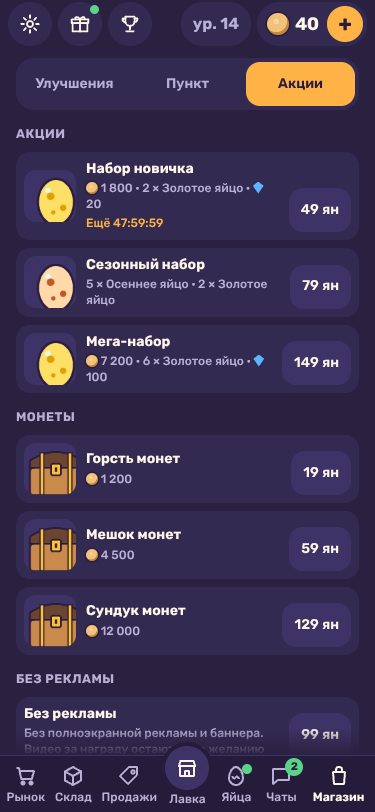
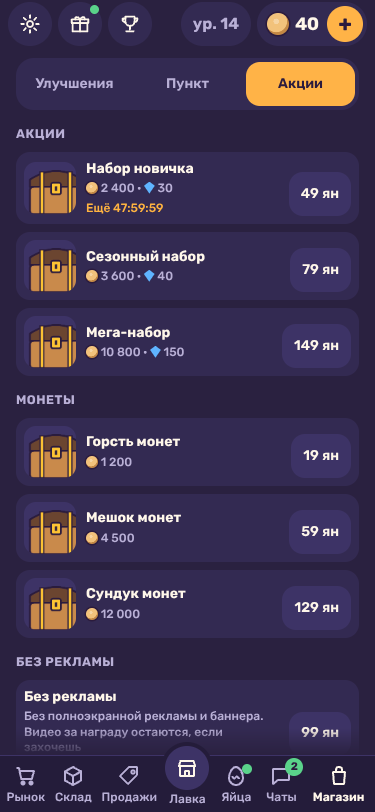
M5-09: «двойки» ревизора рекламы — буст 2 раза в день, яиц за ролик 5 → 3, наборы без яиц (IAP-04), таймер у «×2 за сделку», F9 по худшему случаю; кадры пересняты
Claude-Session: https://claude.ai/code/session_01SMkcH8Uyoj9PHiCEX6TipC

diff --git a/scripts/balance-model.ts b/scripts/balance-model.ts
@@ -12,7 +12,7 @@
 //   Long run (3 days of 30 active minutes and 8 hours away, casual and slow bots): F6 8 h away pays 30–60 min of play (casual)
 //     · F19 (FB-03, Q-039 B) an hour away pays 30–50 % of an hour of play (up to 2 hours), the seller level grows ≤ 1 away
 //   F20 (FB-05): full egg care at least doubles the VIP and exclusive share of every ladder egg and pays for its food.
-//     · F7 the rebirth threshold on day 2–3 · F8 district 2 by 10 min, district 3 by 40 min of play. F9 (ads, M5-02): the share of eggs for videos and what the ad points add at most in a day of 30 minutes (info).
+//     · F7 the rebirth threshold on day 2–3 · F8 district 2 by 10 min, district 3 by 40 min of play. F9 (ads, M5-02): the share of eggs for videos and what the ad points add at most in a day of 30 minutes (≤ 100 %).
 //   Week (M4-08, casual): F17 something new opens every day of 7, the guest zone pays its upkeep (M4-05) · F18 the second city
 //     1–3 days after the first, its egg bought.
 //   Keeper (feeds every creature to the top before selling): F12 earns at most ×2 of the casual player in 10 min and
@@ -659,22 +659,25 @@ export function runBalance(seeds = 24, longSeeds = Math.max(3, Math.round(seeds 
     const deals = quantile(casualDays.map((r) => r.dealsDay1), 0.5);
     const adEggs = Math.min(a.eggs.perDay, Math.floor(day / Math.max(1, a.eggs.gapSec)) + 1);
     const share = adEggs / Math.max(1, hatched + adEggs);
-    const boost = ((a.boost.mult - 1) * Math.min(a.boost.sec, day)) / day;
+    const boost = ((a.boost.mult - 1) * Math.min(a.boost.sec * a.boost.perDay, day)) / day;
     const dealGap = a.rewarded.placementGapSec?.deal_x2 ?? a.rewarded.gapSec;
     const doubled = Math.min(deals, Math.floor(day / Math.max(1, dealGap)));
     const double = doubled / Math.max(1, deals);
-    // An egg for a video hatches at the gift price: its expected value in minutes of income (the ladder card counts as the gift egg).
+    // An egg for a video hatches at the gift price, capped at rewardCapMin minutes of income. The worst case (the ad review of M5):
+    // the ladder card — the best open ladder egg — at the cap, every video of the day on it; the golden card at its expected value.
     const evMin = a.eggs.cards.map((c) => {
-      const e = content.eggs.eggs.find((x) => x.id === (c.egg === 'ladder' ? 'egg_gift' : c.egg));
+      if (c.egg === 'ladder') return content.eggs.income.rewardCapMin;
+      const e = content.eggs.eggs.find((x) => x.id === c.egg);
       const ev = e?.value ? RARITIES.reduce((n, r) => n + (e.chances[r] / 100) * e.value![r], 0) : 1;
       return Math.min(content.eggs.income.rewardCapMin, (e?.valueIncomeMin ?? 1) * ev);
     });
-    const eggs = (adEggs * (evMin.reduce((x, y) => x + y, 0) / evMin.length)) / (day / 60);
+    const eggs = (adEggs * Math.max(...evMin)) / (day / 60);
     const total = boost + double + eggs;
     lines.push(
       `ads     M5-02 casual day of 30 min (p50): eggs for videos ${adEggs} of ${fmt(hatched + adEggs, 0)} (${fmt(share * 100, 0)} %) · boost +${fmt(boost * 100, 0)} %` +
-        ` · ×2 deal ${doubled} of ${fmt(deals, 0)} deals (+${fmt(double * 100, 0)} %) · egg ads ≈ +${fmt(eggs * 100, 0)} % · F9 at most +${fmt(total * 100, 0)} % (want 30–100 %) ${total >= 0.3 && total <= 1 ? 'ok' : 'info'}`,
+        ` · ×2 deal ${doubled} of ${fmt(deals, 0)} deals (+${fmt(double * 100, 0)} %) · egg ads ≤ +${fmt(eggs * 100, 0)} % · F9 at most +${fmt(total * 100, 0)} % (want 30–100 %) ${total >= 0.3 && total <= 1 ? 'ok' : 'FAIL'}`,
     );
+    if (total > 1) failures.push(`F9 the ad points add up to +${fmt(total * 100, 0)} % in a day (want ≤ 100 %)`);
   } else lines.push('F9 rewarded ads: no ads data');
   lines.push(failures.length ? `FAIL: ${failures.join('; ')}` : `F1–F8, F10${LIMITS.F11enforced ? ', F11' : ''}, F12–F20: all green`);
   return { ok: failures.length === 0, lines, failures };

diff --git a/src/sim/game.ts b/src/sim/game.ts
@@ -462,8 +462,10 @@ export interface Game {
   /** M5-02: the player's last deal still to double (the creature sold and its coins), or null. */
   dealToDouble(): { uid: string; coins: number } | null;
   /** M5-02: the sales boost of the «Gifts» tile — sales ×mult for its seconds of live play. */
-  startBoost(): void;
+  startBoost(day: string): boolean;
   boostLeft(): number;
+  /** M5-02: sales boosts still to take today (boost.perDay a device day). */
+  boostsLeft(day: string): number;
   /** M5-05: a purchase's goods into the shop (coins by income, eggs into «my eggs», crystals); the coins given. */
   grantPack(give: PackGive): number;
   /** M5-04, M5-05: a store mark — a pack bought (count by id), «no ads» owned, the end of the starter deal (platform time). */
@@ -493,9 +495,17 @@ export function createGame(store: GameStore, content: GameContent, rng: Rng): Ga
   let lastAway = 0;
   /** M5-02: the coins of the player's last deal, for «×2» once (not saved: the button lives in the deal's own chat). */
   let lastDeal: { uid: string; coins: number } | null = null;
+  /** M5-02: a new device day starts the ad counts over (eggs, boosts). */
+  const newDay = (day: string): void => {
+    const a = adsOf();
+    if (a.day === day) return;
+    a.day = day;
+    a.eggs = 0;
+    a.boosts = 0;
+  };
   const adsOf = (): NonNullable<SaveData['ads']> => {
     const st = s();
-    st.ads ??= { day: '', eggs: 0, eggIn: 0, boostLeft: 0 };
+    st.ads ??= { day: '', eggs: 0, eggIn: 0, boostLeft: 0, boosts: 0 };
     return st.ads;
   };
   /** FB-02: the player's income, coins a minute (never below the floor of the first minute). */
@@ -2293,10 +2303,7 @@ export function createGame(store: GameStore, content: GameContent, rng: Rng): Ga
       const a = content.ads;
       if (!card || !a || card.left <= 0 || card.waitSec > 0) return false;
       const st = adsOf();
-      if (st.day !== day) {
-        st.day = day;
-        st.eggs = 0;
-      }
+      newDay(day);
       st.eggs += 1;
       st.eggIn = a.eggs.gapSec;
       // An ad egg is a free reward: it hatches in the gift prices (FB-15), like the egg of the gifts.
@@ -2328,11 +2335,20 @@ export function createGame(store: GameStore, content: GameContent, rng: Rng): Ga
       emit({ type: 'change' });
       return c;
     },
-    startBoost() {
-      if (!content.ads) return;
-      adsOf().boostLeft = content.ads.boost.sec;
+    startBoost(day) {
+      if (!content.ads || game.boostsLeft(day) <= 0) return false;
+      newDay(day);
+      const a = adsOf();
+      a.boosts = (a.boosts ?? 0) + 1;
+      a.boostLeft = content.ads.boost.sec;
       commit({ flush: true });
       emit({ type: 'change' });
+      return true;
+    },
+    boostsLeft(day) {
+      if (!content.ads) return 0;
+      const a = s().ads;
+      return a?.day === day ? Math.max(0, content.ads.boost.perDay - (a.boosts ?? 0)) : content.ads.boost.perDay;
     },
     boostLeft: () => s().ads?.boostLeft ?? 0,
     grantPack(give) {

diff --git a/src/ui/chats.ts b/src/ui/chats.ts
@@ -24,7 +24,7 @@ export interface ChatsLookups {
   /** l2: sideways the list and the dialog stand side by side. */
   wide(): boolean;
   /** M5-02: «×2 deal» for a video after a sale in the chat; missing — no ad button. */
-  double?: { busy(): boolean; watch(): void };
+  double?: { busy(): boolean; wait(): number; watch(): void };
 }
 
 export interface ChatsTab {
@@ -112,18 +112,24 @@ export function createChatsTab(sheet: Sheet, game: Game, look: ChatsLookups): Ch
     // Q-025: the creature of an open chat is off the shelf («talking»); a closed one may be back on the shelf or in the inventory.
     const view = game.view();
     const cr = [...view.talking, ...view.creatures, ...view.inventory].find((x) => x.uid === c.uid);
-    const next = `d:${id}:${look.lang()}:${c.state}:${c.lines.length}:${c.offer}:${cr?.ask ?? ''}:${game.dealToDouble()?.uid ?? ''}:${look.double?.busy() ?? ''}`;
+    const next = `d:${id}:${look.lang()}:${c.state}:${c.lines.length}:${c.offer}:${cr?.ask ?? ''}:${game.dealToDouble()?.uid ?? ''}:${look.double?.busy() ?? ''}:${look.double ? Math.ceil(look.double.wait()) : ''}`;
     if (next === dialogKey) return;
     dialogKey = next;
     const f = fmt();
     const rarity = look.rarity(c.species);
     let buttons: string;
     const dbl = look.double && c.state === 'sold' && game.dealToDouble()?.uid === c.uid ? game.dealToDouble() : null;
+    // M5-02 (ad review): within its gap «×2 deal» shows the seconds left instead of a «wait» note on a tap.
+    const wait = dbl ? Math.min(59, Math.ceil(look.double!.wait())) : 0;
     if (c.state !== 'open')
       buttons =
         `<p class="mu-meta chat-end">${esc(look.t(c.state === 'sold' ? 'chats.sold' : 'chats.gone'))}</p>` +
         // M5-02: «▶ Ad: ×2 deal» right in the chat of the deal just made, the coins on the button.
-        (dbl ? `<button type="button" class="mu-btn btn-ad" data-action="ad-double" aria-disabled="${look.double!.busy()}">${iconize(look.t('ad.double', { n: `◉ ${f.format(dbl.coins)}` }))}</button>` : '');
+        (dbl
+          ? wait > 0
+            ? `<button type="button" class="mu-btn btn-ad off" data-action="ad-double" aria-disabled="true">${esc(look.t('ad.doubleIn', { t: `0:${String(wait).padStart(2, '0')}` }))}</button>`
+            : `<button type="button" class="mu-btn btn-ad" data-action="ad-double" aria-disabled="${look.double!.busy()}">${iconize(look.t('ad.double', { n: `◉ ${f.format(dbl.coins)}` }))}</button>`
+          : '');
     else
       buttons =
         `<button type="button" class="mu-btn main" data-action="chat-sell">${iconize(look.t('chats.sell', { n: `◉ ${f.format(c.offer)}` }))}</button>` +

diff --git a/src/sim/state.ts b/src/sim/state.ts
@@ -105,7 +105,7 @@ export interface SaveData {
   /** Promo codes already used (M3-13). */
   codes: string[];
   /** M5-02: rewarded ads — the device day and egg ads taken that day, game seconds to the next egg ad, seconds of the sales boost left. */
-  ads?: { day: string; eggs: number; eggIn: number; boostLeft: number };
+  ads?: { day: string; eggs: number; eggIn: number; boostLeft: number; boosts?: number };
   /** M5-04, M5-05: purchases — «no ads» owned, packs bought by id, platform time the starter deal ends (0 — not shown yet). */
   shop?: { noAds: boolean; bought: Record<string, number>; starterEnds: number };
 }
@@ -201,7 +201,7 @@ export function newSave(now: number): SaveData {
     gifts: { subscribed: {}, reviewed: false, days: 0, lastDay: '' },
     work: 1,
     codes: [],
-    ads: { day: '', eggs: 0, eggIn: 0, boostLeft: 0 },
+    ads: { day: '', eggs: 0, eggIn: 0, boostLeft: 0, boosts: 0 },
     shop: { noAds: false, bought: {}, starterEnds: 0 },
   };
 }
@@ -310,7 +310,7 @@ export function normalize(raw: unknown, now: number): SaveData {
     codes: arr(r.codes).filter((x): x is string => typeof x === 'string'),
     ads: (() => {
       const a = rec(r.ads);
-      return { day: str(a.day, ''), eggs: Math.max(0, Math.floor(num(a.eggs, 0))), eggIn: Math.max(0, num(a.eggIn, 0)), boostLeft: Math.max(0, num(a.boostLeft, 0)) };
+      return { day: str(a.day, ''), eggs: Math.max(0, Math.floor(num(a.eggs, 0))), eggIn: Math.max(0, num(a.eggIn, 0)), boostLeft: Math.max(0, num(a.boostLeft, 0)), boosts: Math.max(0, Math.floor(num(a.boosts, 0))) };
     })(),
     shop: (() => {
       const o = rec(r.shop);

diff --git a/src/ui/gifts.ts b/src/ui/gifts.ts
@@ -27,7 +27,7 @@ export interface GiftsLookups {
   goalName(id: string): string;
   review(): Promise<{ available: boolean; sent: boolean }>;
   /** M5-02: the time boost tile (sales ×mult for a video); missing — no ad tile. */
-  boost?: { busy(): boolean; left(): number; watch(): void; thing: string };
+  boost?: { busy(): boolean; left(): number; more(): number; watch(): void; thing: string };
 }
 
 export interface GiftsWindow {
@@ -144,7 +144,11 @@ export function createGiftsWindow(parent: HTMLElement, game: Game, look: GiftsLo
           head('ad.boosts'),
           `<div class="mu-card gift-boost" data-gift="boost"><span class="mu-pic"><img alt="" src="${look.thing(look.boost.thing)}"></span><span class="day-text"><b class="mu-name">${esc(look.t('ad.boostName'))}</b>` +
             `<span class="mu-meta">${esc(left > 0 ? look.t('ad.boostOn', { t: `${Math.floor(left / 60)}:${String(left % 60).padStart(2, '0')}` }) : look.t('ad.boostText'))}</span></span>` +
-            (left > 0 ? '' : `<button type="button" class="mu-btn btn-ad" data-action="ad-boost" aria-disabled="${look.boost.busy()}">${esc(look.t('ad.boost'))}</button>`) +
+            (left > 0
+              ? ''
+              : look.boost.more() <= 0
+                ? `<span class="mu-meta day-got">${esc(look.t('ad.tomorrow'))}</span>`
+                : `<button type="button" class="mu-btn btn-ad" data-action="ad-boost" aria-disabled="${look.boost.busy()}">${esc(look.t('ad.boost'))}</button>`) +
             '</div>',
         );
       }

diff --git a/src/main.ts b/src/main.ts
@@ -462,6 +462,7 @@ async function boot(): Promise<void> {
       ? {
           double: {
             busy: () => adsMod.busy(),
+            wait: () => adsMod.waitSec('deal_x2'),
             watch: () =>
               void adsMod.rewarded('deal_x2', () => {
                 const got = play.adDouble();
@@ -499,6 +500,8 @@ async function boot(): Promise<void> {
   });
   window.setInterval(() => {
     if (nav.active() === 'market') marketTab.render();
+    // M5-02: the «×2 deal» button counts down its gap.
+    if (nav.active() === 'chats' && adsMod.on) chatsTab.render();
   }, 1000);
   /** The player's local date (platform time) for the 7 days of gifts. */
   const today = (): string => {
@@ -529,7 +532,9 @@ async function boot(): Promise<void> {
     portrait: (sp, r) => portraits.creature(sp, r),
     goalName: (id) => calendar.tasks.pool.find((g) => g.id === id)?.name[i18n.lang()] ?? id,
     review: () => platform.requestReview(),
-    ...(adsMod.on ? { boost: { busy: () => adsMod.busy(), left: () => play.boostLeft(), watch: () => void adsMod.rewarded('sales_boost', () => play.startBoost()), thing: 'tags' } } : {}),
+    ...(adsMod.on
+      ? { boost: { busy: () => adsMod.busy(), left: () => play.boostLeft(), more: () => play.boostsLeft(today()), watch: () => void adsMod.rewarded('sales_boost', () => void play.startBoost(today())), thing: 'tags' } }
+      : {}),
   });
   hud.side.insertAdjacentHTML(
     'beforeend',

diff --git a/src/ui/ads.ts b/src/ui/ads.ts
@@ -35,6 +35,8 @@ export interface Ads {
   rewarded(placement: string, give: () => void): Promise<RewardedOutcome | 'wait' | 'busy'>;
   /** A step between screens by the player's tap (a window closed, a tab changed): maybe an interstitial. */
   betweenScreens(placement: string): Promise<boolean>;
+  /** Seconds until a rewarded video of this place may play (its own gap and the common one); 0 — now. */
+  waitSec(placement: string): number;
   /** Why an interstitial would not show now (test API and the debug panel). */
   interstitialBlock(): InterstitialBlock | 'noads' | 'off' | 'busy';
   /** «No ads» changed: the banner follows it. */
@@ -90,6 +92,11 @@ export function createAds(deps: AdsDeps): Ads {
         deps.note('unavailable');
       }
       return r.outcome;
+    },
+    waitSec(placement) {
+      const t = deps.playSec();
+      const own = (placeAt.get(placement) ?? -Infinity) + (deps.rules.rewarded.placementGapSec?.[placement] ?? 0) - t;
+      return Math.max(0, own, gate.rewardedReady(t) ? 0 : 1);
     },
     interstitialBlock() {
       if (!on) return 'off';

diff --git a/e2e/truthful-m5.spec.ts b/e2e/truthful-m5.spec.ts
@@ -51,7 +51,7 @@ test.describe('M5-00 truthful stand', () => {
     const before = await myEggs(page);
     await expect(page.locator('[data-sheet=eggs] [data-section=ad]')).toBeVisible();
     const head = page.locator('[data-sheet=eggs] .mu-head:has(+ [data-section=ad]) span');
-    await expect(head).toHaveText(/5/);
+    await expect(head).toHaveText(/3/);
     const t0 = Date.now();
     await page.locator('[data-action=ad-egg-ad_gold]').click();
     const ad = page.locator('#__ya_mock_ad__');
@@ -62,7 +62,7 @@ test.describe('M5-00 truthful stand', () => {
     expect(Date.now() - t0).toBeGreaterThan(2500);
     await expect.poll(() => myEggs(page)).toBe(before + 1);
     await expect(page.locator('[data-ad-egg=ad_gold]')).toBeVisible();
-    await expect(head).toHaveText(/4/);
+    await expect(head).toHaveText(/2/);
     expect((await state(page)).pause).not.toContain('ad');
     // M5-07: the standard Yandex names with the place.
     const names = (await events(page)).filter((e) => e.params?.placement === 'rare_egg').map((e) => e.name);

diff --git a/tests/game-ads.test.ts b/tests/game-ads.test.ts
@@ -69,12 +69,16 @@ describe('M5-02 ad rewards', () => {
     expect(game.adDouble()).toBe(got);
     expect(game.state.coins - before).toBe(got * 2);
     expect(game.adDouble()).toBe(0);
-    game.startBoost();
+    expect(game.startBoost('d')).toBe(true);
     expect(game.boostLeft()).toBe(ads.boost.sec);
+    for (let i = 1; i < ads.boost.perDay; i++) expect(game.startBoost('d')).toBe(true);
+    expect(game.boostsLeft('d')).toBe(0);
+    expect(game.startBoost('d')).toBe(false);
+    expect(game.boostsLeft('d2')).toBe(ads.boost.perDay);
     game.tick(1);
-    expect(game.boostLeft()).toBe(ads.boost.sec - 1);
+    expect(game.boostLeft()).toBeCloseTo(ads.boost.sec - 1);
     game.offline(3600);
-    expect(game.boostLeft()).toBe(ads.boost.sec - 1);
+    expect(game.boostLeft()).toBeCloseTo(ads.boost.sec - 1);
   });
 
   it('a pack: coins by income, eggs into my eggs, crystals', () => {

diff --git a/src/content/schemas.ts b/src/content/schemas.ts
@@ -417,7 +417,7 @@ export const AdsFile = v.object({
     cards: v.pipe(v.array(v.object({ id: Id, egg: Id })), v.minLength(1)),
   }),
   hatch: v.object({ minLeftSec: v.pipe(v.number(), v.minValue(0)) }),
-  boost: v.object({ mult: v.pipe(v.number(), v.minValue(1), v.maxValue(2)), sec: v.pipe(v.number(), v.minValue(1)) }),
+  boost: v.object({ mult: v.pipe(v.number(), v.minValue(1), v.maxValue(2)), sec: v.pipe(v.number(), v.minValue(1)), perDay: Count }),
   interstitial: v.object({
     firstSec: v.pipe(v.number(), v.minValue(0)),
     gapSec: v.pipe(v.number(), v.minValue(0)),

diff --git a/docs/evidence/M5/gamedesign-ads.md b/docs/evidence/M5/gamedesign-ads.md
@@ -1,0 +1,39 @@
+# M5 · ревизия рекламы и покупок (геймдизайнер монетизации)
+
+Средний балл: **3,0**. Двойки: фарм роликов (4) и магазин (5). Ревизия по файлам, игру и тесты не запускал; живой SDK и покупки на Яндексе не проверены.
+
+| # | Пункт | Балл | Почему |
+|---|---|---|---|
+| 1 | Частота | 4 | Полноэкранная по брифу и `docs/03` §2: `interstitial` 180 / 180 / 60 с, только между экранами, не в вылуплении, торге и серии тапов; перерыв считается от реального показа. Минус: «×2 за сделку» раз в 60 с игры (`playSec` на паузе ролика стоит) — до одного ролика в минуту, если игрок жмёт. Это выбор игрока, но темп высокий. |
+| 2 | Честность | 4 | Награда выдаётся только на `rewarded`, поздний тоже (`ads.ts`). При «закрыл раньше» и «нет видео» кнопка остаётся, игрок видит подсказку. На кнопке ×2 написана сумма, и выдаётся она же (`lastDeal.coins`). Минусы: кнопку ×2 видно и во время перерыва места, а нажатие даёт только «Минутку», без таймера. На карточке «Золотого» за ролик не показаны шансы (см. п. 5). |
+| 3 | Щедрость | 3 | Яйца — щедрее стандарта жанра: 5 в день, лучшее открытое яйцо лестницы, первое «Золотое» не ниже премиум. Офлайн ×2 — как в стандарте. Буст скуп: в стандарте жанра один ролик даёт ×2 дохода на часы, у нас ×1,5 на 10 минут. Чтобы буст не гас, нужно 6 роликов в час, это скорее работа, чем подарок. |
+| 4 | Фарм роликов | **2** | Расчёт ниже: максимум ≈ +140 % за 30-минутный день. Это выше потолка F10 (+100 %). Модель `sim:balance` показывает +39 %, потому что занижает два слагаемых. |
+| 5 | Магазин | **2** | Цены мягкие (49 / 79 / 149; 19 / 59 / 129; «Без рекламы» 99), «Без рекламы» гасит только полноэкранную и баннер, покупки за флагом. Но в наборах «Золотое» и «Осеннее» продаются за деньги без показанных шансов, а это **IAP-04** (`docs/03` §2, отказ модерации). Шансов «Золотого» нет нигде: `eggShop()` отбрасывает `section: "reward"` (`src/sim/game.ts:1714`), а карточка набора (`store.ts`, `contents()`) пишет только «2 × Золотое яйцо». Таймер 48 ч набора новичка соответствует стандарту, но для 6+ это лёгкое давление. |
+
+## Фарм: расчёт (п. 4)
+
+- **Яйца за ролик.** Карточка `ad_ladder` выдаёт лучшее открытое яйцо лестницы и вылупляется по цене подарка: `min(цена × value, rewardCapMin = 5 мин дохода)` (`game.ts:1406`). По F11 такое яйцо стоит около 2 минут дохода, ожидание ×1, плюс уход в инкубаторе, то есть примерно 2–5 минут дохода за штуку. Модель же считает эту карточку как `egg_gift` (0,2 × 2,56 ≈ 0,5 мин). При 5 яйцах в день выходит до 25 минут дохода. В 30-минутном дне это до **+83 %**, а модель показывает около +14 %.
+- **Буст ×1,5.** Дневного лимита нет: после 10 минут плитка снова доступна (`startBoost`, `gifts.ts:147`). Если смотреть 3 ролика за 30 минут, продажи весь день дороже на **+50 %**. Модель берёт только один буст за день (+17 %).
+- **×2 за сделку.** Удваивает только сделку из чата (`lastDeal`, не помощника) раз в 60 с. По модели это около +8 % по числу сделок; по выручке данных нет, не проверено.
+- **Итого максимум за 30 минут:** 83 + 50 + 8 ≈ **+140 %** при потолке +100 %. В 2-часовом дне ≈ +79 %, потому что яйца ограничены днём. «Вылупить сразу» лимита не имеет (только общий перерыв 15 с), но его упирают монеты и витрина; данных нет, не проверено.
+
+## Двойки и правки
+
+1. **Фарм (п. 4).**
+   - `content/ads.json` → `boost`: было `{"mult": 1.5, "sec": 600}`, стало `{"mult": 1.5, "sec": 1800, "perDay": 3}`. Одного ролика хватает на полчаса, и это щедрее; в день — не больше полутора часов буста.
+   - Лимит проверять в `startBoost` (`src/sim/game.ts`) по `st.ads.day`, по аналогии с `eggs`. В `src/ui/gifts.ts` при исчерпании показывать «Снова завтра».
+   - `scripts/balance-model.ts`, строка `ads`:
+     - буст считать как `min(day, perDay × sec)`;
+     - карточку `ladder` оценивать через `min(rewardCapMin, ожидание × цена лучшей открытой ступени / доход)`, а не через `egg_gift`.
+   - Если пересчитанный F9 выйдет больше 100 %: `eggs.perDay` 5 → 3.
+2. **Магазин (п. 5), IAP-04.**
+   - `src/ui/store.ts`: у каждого яйца в наборе — кнопка «Шансы», которая открывает окно шансов из `eggs.ts`. Это окно должно открываться и для `section: "reward"`: снять фильтр в `eggShop()` для просмотра или завести отдельный `eggOdds(id)`.
+   - Шансы показать и на карточке «Золотое за ролик».
+   - Тест: e2e «в окне набора видны шансы каждого яйца».
+   - Вариант дешевле: в `content/shop.json` убрать яйца из `starter`, `season` и `mega` и добавить вместо них `coinsMin` и `crystals`.
+
+## 3 правки по важности
+
+1. IAP-04: шансы яиц в наборах и у «Золотого» (`store.ts`, окно шансов для `reward`). Без этого модерация вернёт игру, как только включат покупки.
+2. Буст: дневной лимит и длинный буст (`ads.json boost.sec` 600 → 1800, `perDay: 3`), плюс честная модель F9 в `balance-model.ts`.
+3. Кнопка ×2 во время перерыва места: показывать время ожидания («через 0:40») или прятать до готовности, а не отвечать «Минутку» (`src/ui/chats.ts`, `ads.ts placeReady`).
